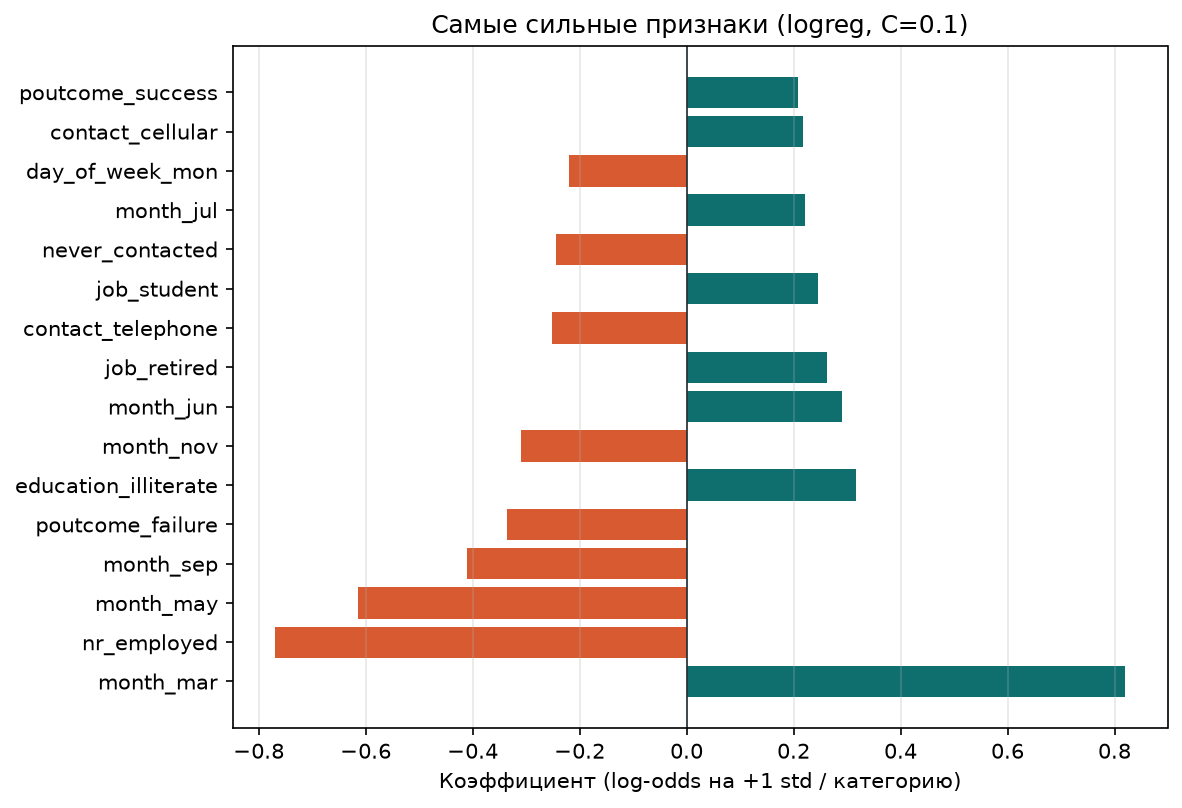
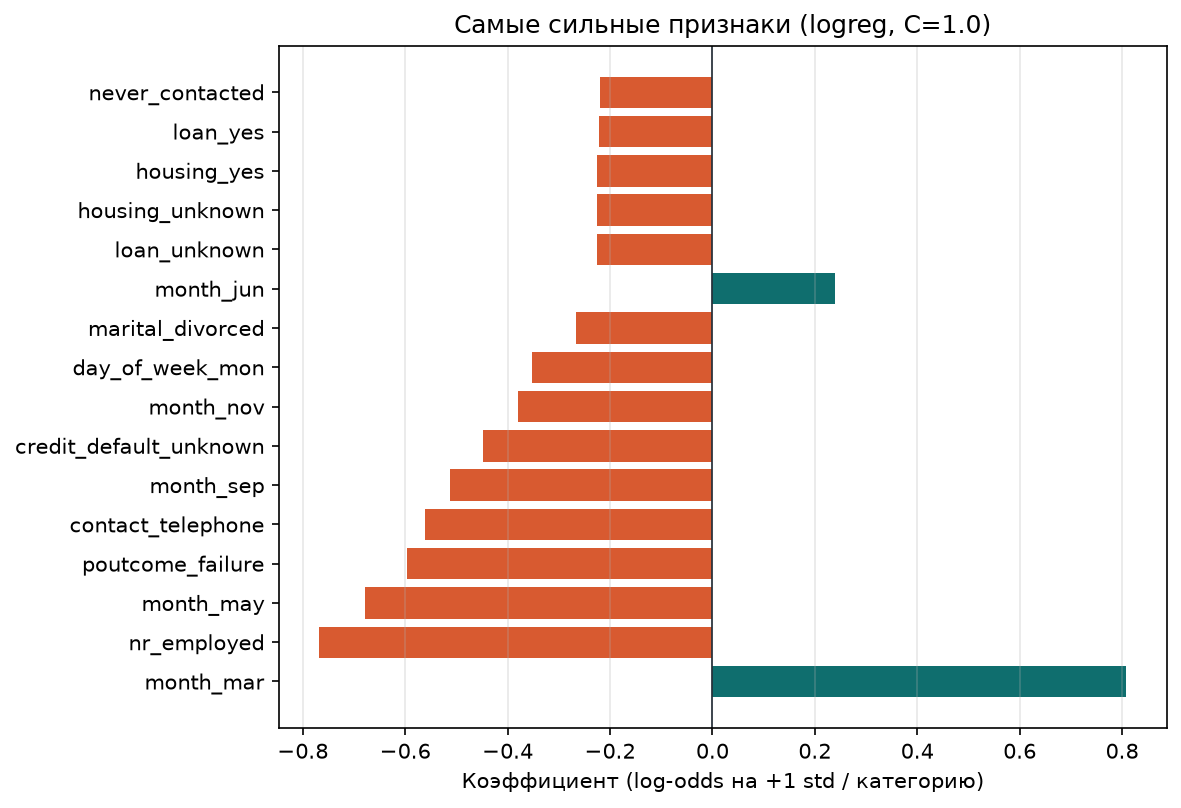
Added baseline

diff --git a/README.md b/README.md
@@ -125,22 +125,28 @@ extract → build_mart → train_model
 
 Признаки группируются по смыслу.
 
-- **Экономический фон.** `nr_employed` — уровень занятости. Чем он ниже, тем чаще берут
-  депозит.
+ - **Экономический фон.** `nr_employed` — уровень занятости. Отрицательный коэффициент:
+  чем выше занятость, тем **ниже** вероятность согласия. Клиенты охотнее берут депозит
+  в менее благоприятной экономической ситуации.
 
-- **Волна обзвона.** `month_*` — конкретная волна кампании с её экономическим фоном
-  и составом клиентов, а не «удачный календарный месяц». У большинства месяцев вес
-  небольшой; сильнее всего выделяются март (положительно) и май (отрицательно).
+- **Волна обзвона.** `month_*` — месяц контакта (волна кампании). `month_mar` —
+  положительный коэффициент (в марте вероятность согласия **выше**), `month_may`,
+  `month_sep`, `month_nov` — отрицательные (**ниже**). Это не «удачный календарный
+  месяц», а конкретная волна с её экономическим фоном и составом клиентов.
 
-- **Прошлая кампания.** `poutcome_failure` (прошлый отказ) имеет отрицательный вес,
-  `poutcome_success` (прошлый успех) — положительный: история контактов информативна.
+- **Прошлая кампания.** `poutcome_failure` — прошлый отказ. Отрицательный коэффициент:
+  если клиент отказался в прошлую кампанию, вероятность согласия сейчас **ниже**.
 
-- **Канал связи.** Стационарный телефон (`contact_telephone`) против мобильного
-  (`contact_cellular`) связан с более низкой склонностью брать депозит.
+- **Канал связи.** `contact_telephone` — стационарный телефон (против мобильного).
+  Отрицательный коэффициент: при контакте по стационарному телефону вероятность
+  согласия **ниже**, чем по мобильному.
 
-- **Кто клиент.** `job_retired` и `job_student` — обе группы чаще среднего говорят «да»,
-  `education_illiterate` — тоже положительный вес, но категория малочисленная, поэтому
-  коэффициент шумный. На фоне волны обзвона и экономики это второстепенные сигналы.
+- **Пропуски в данных.** `credit_default_unknown` — клиент не указал, был ли у него
+  дефолт по кредиту. Отрицательный коэффициент: отказ раскрыть информацию связан
+  с **более низкой** вероятностью согласия.
+
+- **День недели.** `day_of_week_mon` — понедельник. Отрицательный коэффициент:
+  при контакте в понедельник вероятность согласия **ниже**, чем в другие дни.
 
 ### Как подбирались параметры моделей
 
@@ -167,10 +173,23 @@ extract → build_mart → train_model
 
 ## Почему порог вероятности не 0.5
 
-Порог подбирается по прибыли: перебираются значения от 0.01 до 0.80 с шагом 0.01,
-для каждого считается средняя прибыль на фолдах, выбирается порог с максимальной
-прибылью. Это делает функция `choose_threshold` в `airflow/jobs/training.py`
-(на графиках диапазон расширен до 1.0 для наглядности).
+При дефолтном пороге 0.5 модель зовёт только клиентов с вероятностью согласия > 50%.
+Таких мало (клиенты соглашаются в ~11% случаев), поэтому кампания при 0.5 приносит
+меньше прибыли, чем могла бы. Подбор порога по прибыли увеличивает её в **1.8–2.2 раза**:
+
+| Модель | Порог 0.5 (baseline) | Подобранный порог | Прирост |
+|---|---|---|---|
+| LogReg | 1502 ± 183 $ | **2786 ± 116 $** (порог 0.19) | +1284 $ (×1.9) |
+| RandomForest | 1337 ± 192 $ | **2936 ± 127 $** (порог 0.18) | +1599 $ (×2.2) |
+
+ROC-AUC и PR-AUC при этом **не меняются** — порог влияет на решение «звонить/не звонить»,
+но не на качество ранжирования. Меняется только бизнес-результат.
+
+Порог подбирается перебором 0.01–0.80 с шагом 0.01: для каждого значения считается
+средняя прибыль на фолдах, выбирается порог с максимумом. Это делает функция
+`choose_threshold` в `airflow/jobs/training.py` (на графиках диапазон расширен
+до 1.0 для наглядности).
+
 
 ![Прибыль и порог бинаризации](images/threshold_curve_money.png)
 
